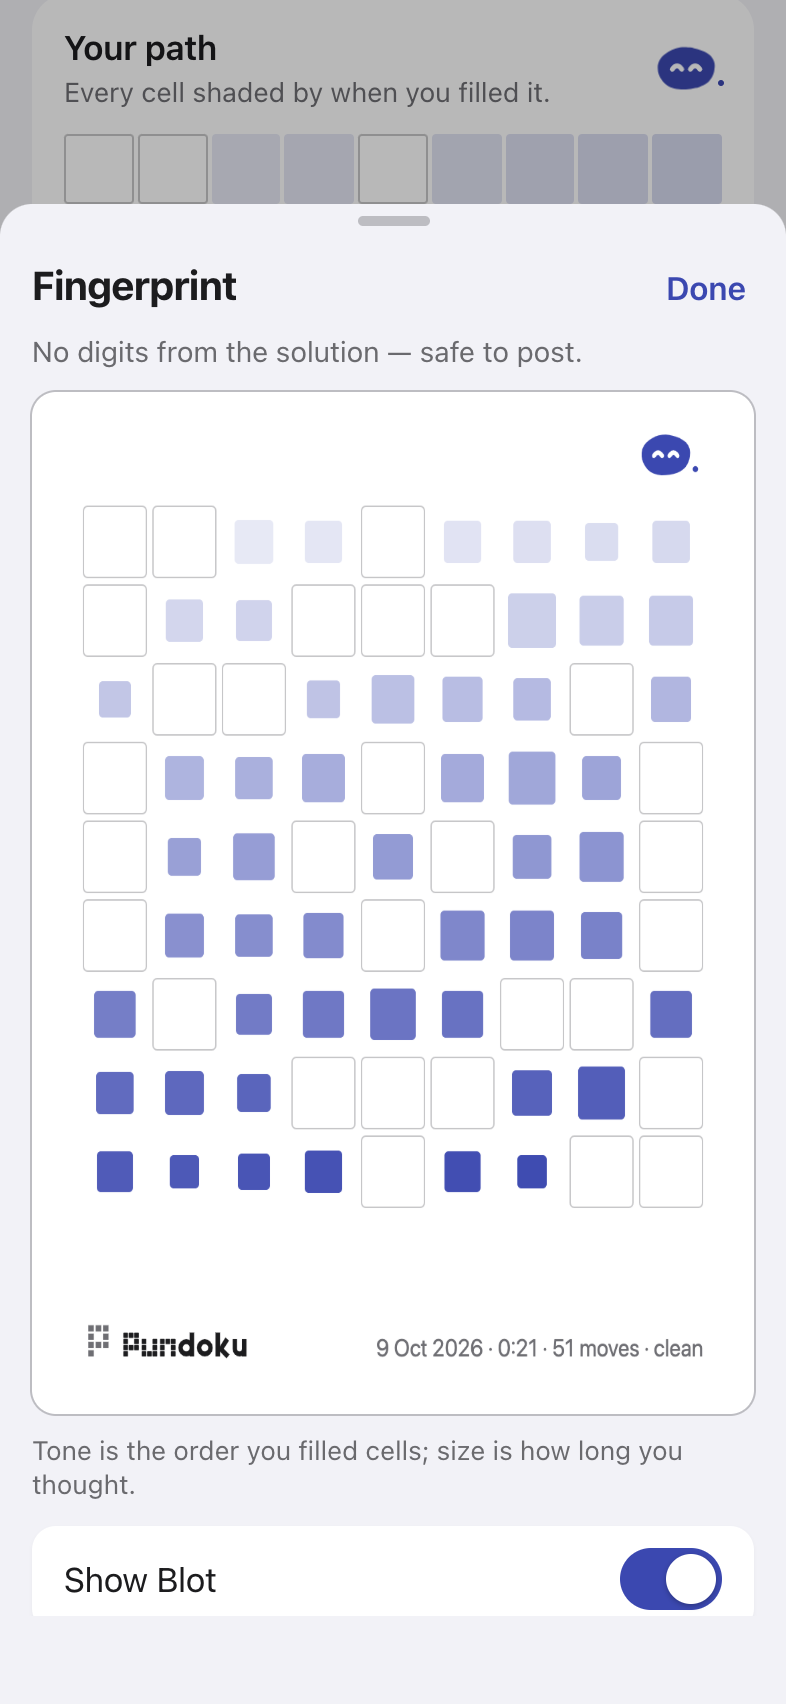
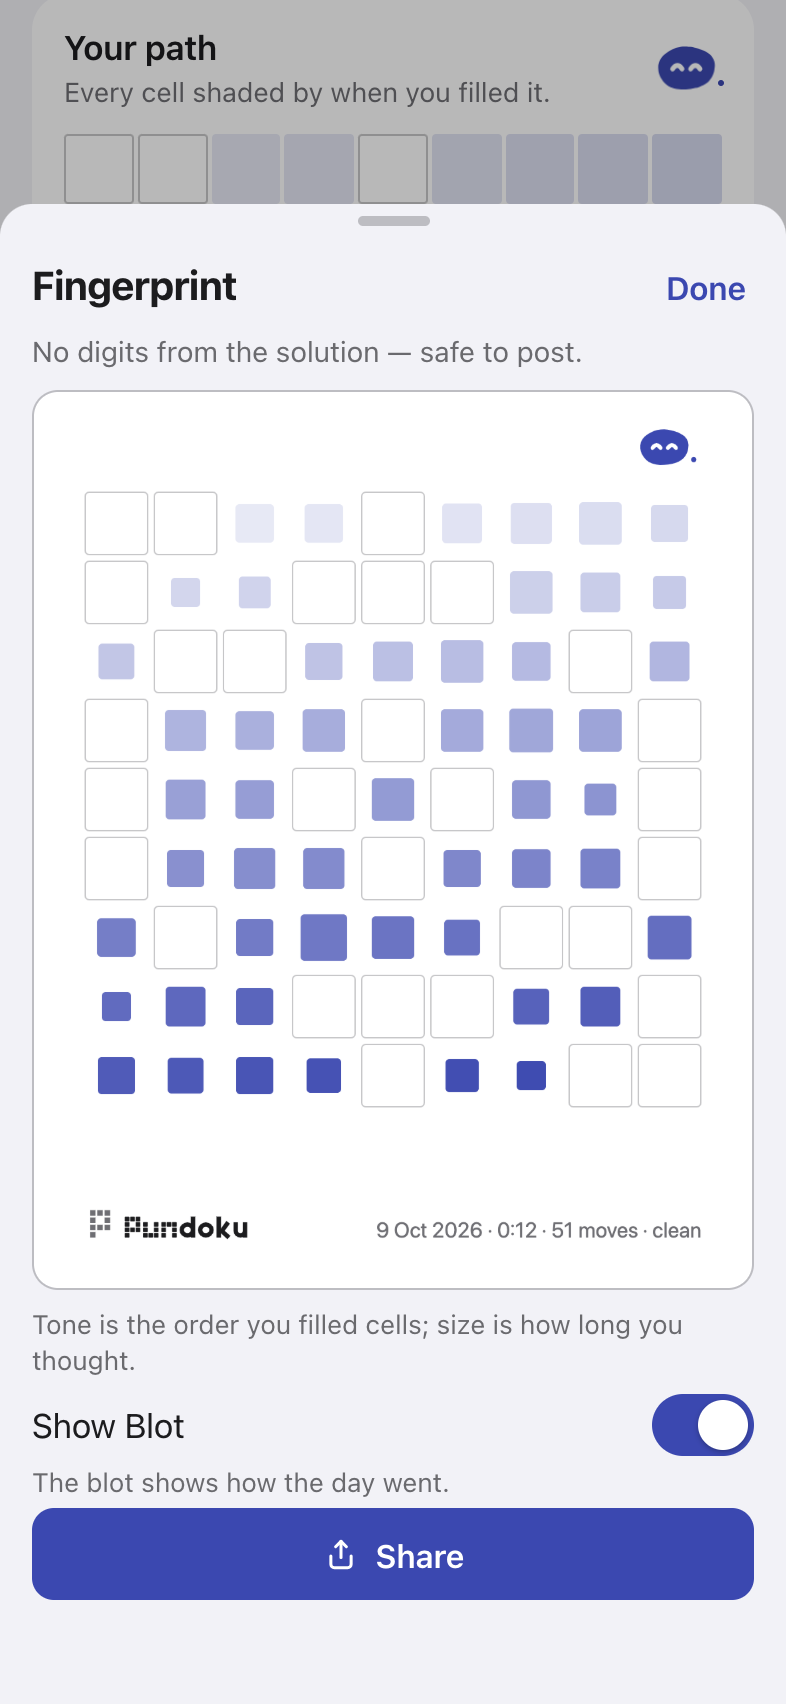
PD-298 (QA): лист «Поделиться» с Питомцем — Share на 393×852 виден без прокрутки; стабильная webkit-проверка «Плюха»
- Место 8: «Show Blot» — компактный ряд-переключатель (подпись + iOS-switch, вся строка ≥ 44 pt) вместо карточки Настроек,
  сноска сразу под ним; превью PNG при включённом Питомце ниже на этот ряд (calc(60dvh − 44px − 1.1rem)) и держит пропорцию
  1080×1350 (height: auto). 393×852: Share 848–894 → 754–800 (без Питомца 755–801, низ видимого 808), ряд «Show Blot» целиком.
  Без Питомца разметка и вид листа не изменились; PNG (печать / без печати) не тронут.
- design/pd298-check.mjs: Share виден без прокрутки на 393×852 с Питомцем и там же, где без него; 430×932 — тоже; 320×568 и
  AX3 — достижим прокруткой; ряд не обрезан; превью в пропорции (до правки — 10 FAIL). «Реакция закончилась» — опрос до
  1000 мс вместо фиксированных 650; серия анти-спама — следующий тап после конца реакции (опрос), а не через D + 120 мс.
  ONLY=share — быстрый прогон только листа. chromium 212/212, webkit 211/211 (×2).
- Тест: компактный ряд и .tl-fp-pet при Питомце, без них — при выключенном.

diff --git a/apps/web/src/play/ExportSheet.tsx b/apps/web/src/play/ExportSheet.tsx
@@ -56,6 +56,8 @@ interface ExportSheetProps {
  * открытии, чтобы `navigator.share` вызывался прямо из жеста (iOS). «Share» — системный лист iOS; без него — скачивание.
  * PD-298 (место 8, макет PD-296): при включённом Питомце — печать кляксы дня в верхней полосе PNG и переключатель «Show Blot»
  * (по умолчанию вкл, запоминается: «устал» выдаёт правки/подсказки — выбор за человеком). Переключили — PNG перерисовывается.
+ * Переключатель — компактный ряд без карточки, а превью на его высоту ниже (`.tl-fp-pet`): Share на 393×852 стоит там же, где
+ * без Питомца, — виден без прокрутки (QA PD-298).
  */
 export function ExportSheet({ play, date, petMood = null, onClose }: ExportSheetProps) {
   const { t, i18n } = useTranslation();
@@ -126,7 +128,7 @@ export function ExportSheet({ play, date, petMood = null, onClose }: ExportSheet
 
   return (
     <TimelapseSheetShell title={t("timelapse.fpTitle")} sub={t("timelapse.fpSub")} onClose={onClose} testId="export-sheet">
-      <div className="tl-fp-frame">
+      <div className={petMood ? "tl-fp-frame tl-fp-pet" : "tl-fp-frame"}>
         {url ? (
           <img className="tl-fp" src={url} width={1080} height={1350} alt={t("timelapse.fpLabel")} data-testid="fp-image" />
         ) : (
@@ -135,25 +137,23 @@ export function ExportSheet({ play, date, petMood = null, onClose }: ExportSheet
       </div>
       <p className="tl-note">{t("timelapse.fpRhythmSub")}</p>
       {petMood && (
-        <>
-          <div className="settings-card tl-pet-card">
-            <label className="settings-row settings-switch">
-              <span className="lab">{t("timelapse.fpPet")}</span>
-              <input
-                type="checkbox"
-                role="switch"
-                className="st-switch"
-                checked={sharePet}
-                onChange={(e) => setSharePet(e.target.checked)}
-                aria-describedby={petFootId}
-                data-testid="fp-pet-toggle"
-              />
-            </label>
-          </div>
-          <p className="tl-note" id={petFootId}>
+        <div className="tl-pet" data-testid="fp-pet">
+          <label className="tl-pet-row">
+            <span className="lab">{t("timelapse.fpPet")}</span>
+            <input
+              type="checkbox"
+              role="switch"
+              className="st-switch"
+              checked={sharePet}
+              onChange={(e) => setSharePet(e.target.checked)}
+              aria-describedby={petFootId}
+              data-testid="fp-pet-toggle"
+            />
+          </label>
+          <p className="tl-note tl-pet-foot" id={petFootId}>
             {t("timelapse.fpPetFoot")}
           </p>
-        </>
+        </div>
       )}
       <div className="tl-share-block">
         <button type="button" className="tl-primary" data-testid="fp-share" disabled={!blob} onClick={share}>

diff --git a/apps/web/src/styles/timelapse.css b/apps/web/src/styles/timelapse.css
@@ -581,8 +581,29 @@ input[type="range"].tl-scrub:focus-visible {
   }
 }
 
-/* PD-298 (место 8): переключатель «Show Blot» под превью PNG — строка-переключатель Настроек (settings.css) без боковых полей:
-   поля даёт тело шита. */
-.tl-pet-card.settings-card {
-  margin: 12px 0 0;
+/* PD-298 (место 8): переключатель «Show Blot» под превью PNG — компактный ряд (не карточка Настроек): подпись + iOS-switch
+   (.st-switch из settings.css), вся строка — цель касания ≥ 44 pt; сноска сразу под ним. Чтобы Share на 393×852 остался там же,
+   где без Питомца (виден без прокрутки, над нижним inset), превью ниже ровно на этот ряд: 44 px + строка сноски (≈ 1.1rem).
+   height: auto — превью держит пропорцию PNG 1080×1350 (сужается, а не сплющивается). Без Питомца (.tl-fp-pet нет) — как было. */
+.tl-fp-pet .tl-fp {
+  height: auto;
+  max-height: calc(60dvh - 44px - 1.1rem);
+}
+.tl-pet-row {
+  display: flex;
+  align-items: center;
+  gap: 10px;
+  min-height: 44px;
+  padding-top: 4px;
+  font-size: 1rem;
+  color: var(--label);
+  cursor: pointer;
+}
+.tl-pet-row .lab {
+  flex: 1 1 auto;
+  min-width: 0;
+  overflow-wrap: anywhere;
+}
+.tl-pet-foot {
+  padding-top: 0;
 }

diff --git a/apps/web/src/pet/pet.places.test.tsx b/apps/web/src/pet/pet.places.test.tsx
@@ -299,6 +299,10 @@ describe("место 8: лист экспорта — переключатель
     expect(sw.checked).toBe(true);
     expect(sw.closest("label")!.textContent).toBe("Show Blot");
     expect(document.getElementById(sw.getAttribute("aria-describedby")!)!.textContent).toBe("The blot shows how the day went.");
+    // QA PD-298 (393×852: Share уходил под низ): компактный ряд вместо карточки Настроек, превью ниже на этот ряд (.tl-fp-pet).
+    expect(sw.closest("label")!.className).toBe("tl-pet-row");
+    expect(sw.closest(".settings-card")).toBeNull();
+    expect(tid("fp-image")!.closest(".tl-fp-frame")!.classList.contains("tl-fp-pet")).toBe(true);
     expect(m.stamps).toEqual([1]);
     await act(async () => sw.closest("label")!.dispatchEvent(new MouseEvent("click", { bubbles: true })));
     expect(getSharePet()).toBe(false);
@@ -319,6 +323,8 @@ describe("место 8: лист экспорта — переключатель
     const m = mount(null);
     await m.render();
     expect(tid("fp-pet-toggle")).toBeNull();
+    expect(tid("fp-pet")).toBeNull();
+    expect(tid("fp-image")!.closest(".tl-fp-frame")!.classList.contains("tl-fp-pet")).toBe(false); // main-вид превью не тронут
     expect(m.stamps).toEqual([0]);
   });
 
